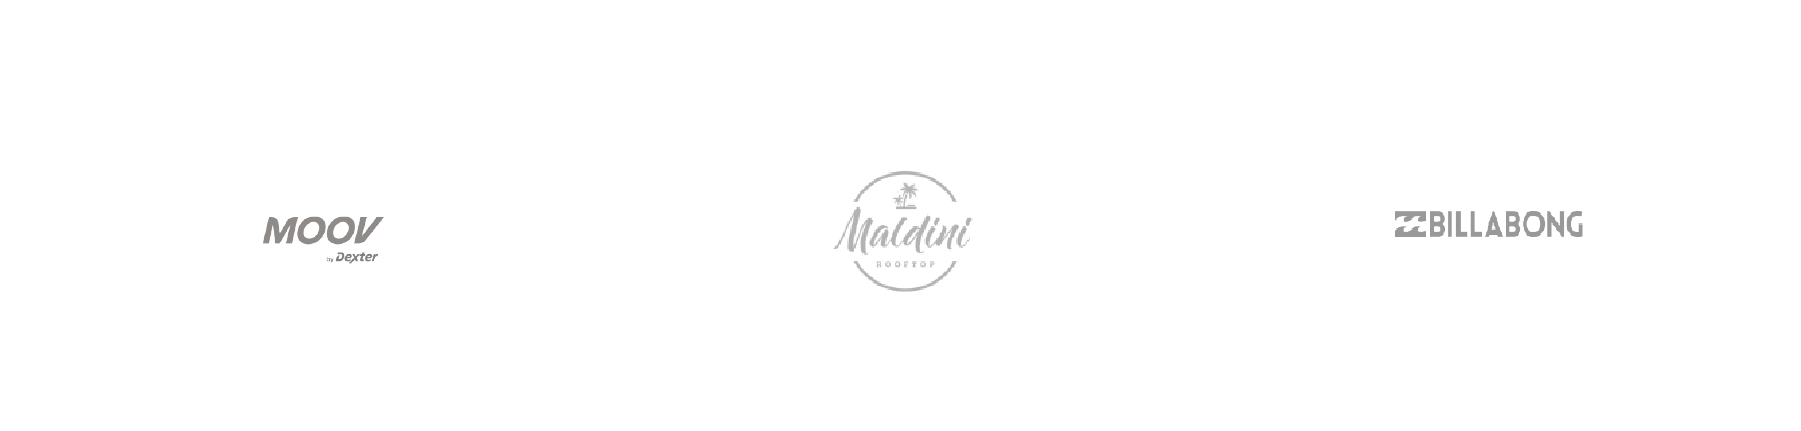
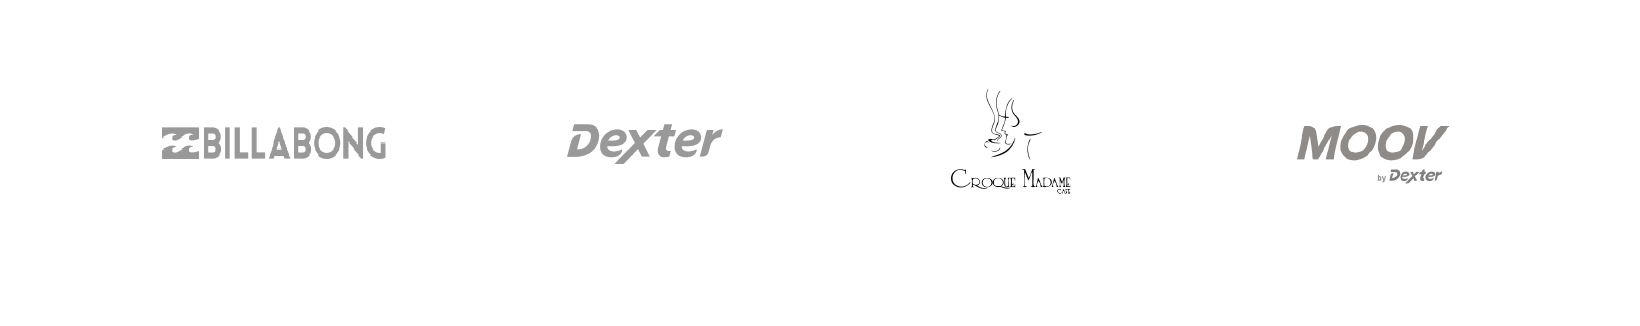
cambio slider

diff --git a/index.html b/index.html
@@ -15,22 +15,19 @@
 </head>
 <body class="body">
   <!--NAVEGADOR mobile-->
-  <nav class="  navbar  pl-4 navbar-expand-lg navbar-light">
-    <a class="navbar-brand logonav " href="#"><img class="logoritmo mr-5" src="img/logo.png" alt="logo ritmo"></a>
+  <nav class="navbar pl-4 navbar-expand-lg navbar-light">
+    <a class="navbar-brand logonav " href="#"><img class="logoritmo " src="img/logo.png" alt="logo ritmo"></a>
     <button class=" navbar-toggler" type="button" data-toggle="collapse" data-target="#navbarNavAltMarkup" aria-controls="navbarNavAltMarkup" aria-expanded="false" aria-label="Toggle navigation">
       <span class="navbar-toggler-icon"></span>
     </button>
-    <div class=" collapse navbar-collapse" id="navbarNavAltMarkup">
-      <div class=" navbar-nav nav ">
-        <a class="nav-item nav-link active pl-5 pt-3 " href="#marcas">Nuestros clientes</a>
-        <a class="nav-item nav-link active pl-5 pt-3" href="#comofunciona">Cómo funciona</a>
-        <a class="nav-item nav-link active pl-5 pt-3" href="#comolohacemos">¿Cómo lo hacemos?</a>
-        <a class="nav-item nav-link active pl-5 pt-3" href="#creativos">Creativos</a>
-        <a class="nav-item nav-link active pl-5 pt-3 pr-3" href="#plataforma">Plataforma</a>
+    <div class=" collapse navbar-collapse " id="navbarNavAltMarkup">
+      <div class=" navbar-nav nav navbar">
+        <a class="nav-item nav-link active " href="#marcas">Nuestros clientes</a>
+        <a class="nav-item nav-link active" href="#comofunciona">Cómo funciona</a>
+        <a class="nav-item nav-link active" href="#comolohacemos">¿Cómo lo hacemos?</a>
+        <a class="nav-item nav-link active" href="#creativos">Creativos</a>
+        <a class="nav-item nav-link active pr-3" href="#plataforma">Plataforma</a>
         <button class="button ml-5">Solicitar demo</button>
-        
-
-        
       </div>
     </div>
    
@@ -59,39 +56,48 @@
   </div>
 </section>
 <section id="marcas" >
-  <div uk-slideshow="autoplay: true">
 
-    <div class="uk-position-relative uk-visible-toggle uk-light marcast" tabindex="-1">
+<div class="uk-position-small uk-visible-toggle uk-light" tabindex="-1" uk-slideshow="ratio: 7:2">
 
-        <ul class="uk-slideshow-items ">
-            <li >
-                <img class="w-100" src="img/marcasone.png" alt="">
-            </li>
-            <li>
-                <img class="w-100" src="img/marcastwo.png" alt="" >
-            </li>
-            <li>
-                <img class="w-100" src="img/marcasthree.png" alt="" >
-            </li>
-        </ul>
-    </div>
+  <ul class="uk-slideshow-items">
+      <li>
+          <img src="img/marcasone.png" alt="" >
+      </li>
+      <li>
+          <img src="img/marcastwo.png" alt="" >
+      </li>
+      <li>
+          <img src="img/marcasthree.png" alt="" >
+      </li>
+  </ul>
+
+
+
 </div>
- 
+
 </section>
 
 </section>  
-<img  class="w-100  seccionvideo" src="img/video.png" alt="">
-
-<div class="videoloop" >
-  <video  controls loop>  
+<section>
+  <img  class="w-100  seccionvideo" src="img/video.png" alt="">
+  <video class="videoloopmobile" controls loop>  
     <source src="img/RITMO WEB VIDEO - CORTO (1) (1).mp4"  type="video/mp4">  
   </video>
+</section>
+<div class="videoloop mt-5" >
+  <video  controls loop>  
+    <source  src="img/RITMO WEB VIDEO - CORTO (1) (1).mp4"  type="video/mp4">  
+  </video>
 </div>
+<section class="seccionvideodesk">
+ 
+  <img class="w-100   seccionvideo1" src="img/seccionvideo.png" alt="">
+</section>
 
-<video class="videoloopmobile" controls loop>  
-	<source src="img/RITMO WEB VIDEO - CORTO (1) (1).mp4"  type="video/mp4">  
-</video>
-<img class="w-100   seccionvideo1" src="img/seccionvideo.png" alt="">
+
+
+
+
 </section>
 <section>
   <img class="boutiqueimg" src="img/boutique.png" alt="">
@@ -354,8 +360,7 @@
     <div class="logocompleto col-6">
       <img class="imgcompleto" src="img/ritmocompleto.png" alt="">
    </div>
-  <div class="follow col-5">
-    
+  <div class="follow col-5"> 
     <ul>
       <li><a href="https://facebook.com"><h3 class="seguinos">Seguinos!</h3></li>
       <li><a href="https://facebook.com"><i class="fab fa-facebook-square"></i></a></li>
@@ -383,8 +388,6 @@
 <h6 class="Copyright">Ritmo Copyright ©2020 | Design by: DesignRules</h6>
 <h6 class="Copyright">Politicas de privavidad    |    Termino & Condiciones</h6>
 </section>
-
-
       <script  src = "https://unpkg.com/ionicons@5.2.3/dist/ionicons.js"></script>
       <script src="https://code.jquery.com/jquery-3.5.1.slim.min.js" integrity="sha384-DfXdz2htPH0lsSSs5nCTpuj/zy4C+OGpamoFVy38MVBnE+IbbVYUew+OrCXaRkfj" crossorigin="anonymous"></script>
       <script src="https://cdnjs.cloudflare.com/ajax/libs/jquery/3.5.0/jquery.min.js" integrity="sha256-xNzN2a4ltkB44Mc/Jz3pT4iU1cmeR0FkXs4pru/JxaQ=" crossorigin="anonymous"></script>

diff --git a/css/master.css b/css/master.css
@@ -11,8 +11,9 @@
 .burger{
     font-size: 2.5rem;
    
+}.button{
+    display: none;
 }
-
 .neuroimg{
     display: none;
 }
@@ -224,16 +225,18 @@ font-size: 0.7rem;
         font-family: 'Work Sans', sans-serif;
         font-weight: 550;
     }
-    .menu{
-        float:right;
-    }
+ 
   .nav a:hover{
     transition: transform .2s;
     transform: scale(0.9);
     
   }
-  .navbar{
-    margin-left: 40px;
+.navbar{
+    width: 100%;
+    margin-right: 50px;
+    display: flex;
+    flex-direction: row;
+    justify-content:flex-end;
 }
  
     .burger{
@@ -275,9 +278,12 @@ font-size: 0.7rem;
         
         
     }
- 
+ .marcas{
+    height: 208px;
+    z-index: 99999;
+ }
     .logoritmo{
-        margin-right: 2rem;
+        
         width: 90px;
     }
     .videoritmo{
@@ -295,13 +301,24 @@ font-size: 0.7rem;
     }
     .videoloop video{
         position: absolute;
-        top: 1353px;
+        width: 927px;
+        height: 476px;
+        left: 176px;
+        top: 1285px;
+        
+    }
+    .seccionvideodesk{
+        
+        height: 916px;
     }
    .title{
        margin-top: 7rem;
    }
    .neuromobile{
        display: none;
+   }
+   .neuroimg{
+    height: 592px;
    }
     .tituloneuromarketing{
         font-family: 'Work Sans', sans-serif;
@@ -335,8 +352,12 @@ font-size: 0.7rem;
     #marcasmobile{
         display: none;
     }
-.marcast{
-    height: 290px;
+#marcas{
+    height: 208px;
+    z-index: 999999;
+}
+.slider{
+   height: 208px ;
 }
     .seccionvideo{
         display: none;
